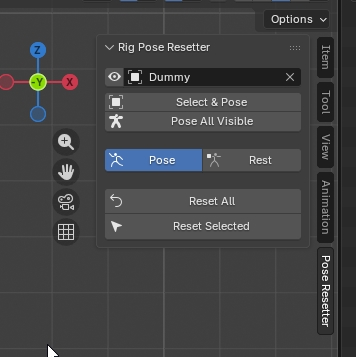
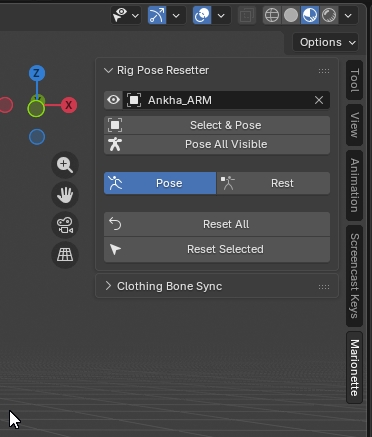
Add files via upload
Обновил категорию с Pose Resetter на Marionette
Риги, скрытые галочкой на коллекции в аутлайнере больше не отображаются в выпадающем списке

diff --git a/__init__.py b/__init__.py
@@ -6,7 +6,7 @@ class RigResetProperties(PropertyGroup):
     target_rig: PointerProperty(
         name="Target Rig",
         type=bpy.types.Object,
-        poll=lambda self, obj: obj.type == 'ARMATURE' and (not obj.library or obj.override_library),
+        poll=lambda self, obj: obj.type == 'ARMATURE' and (not obj.library or obj.override_library) and obj.name in bpy.context.view_layer.objects,
         description="Rig to work with"
     )
     apply_confirm: BoolProperty(
@@ -14,7 +14,6 @@ class RigResetProperties(PropertyGroup):
         default=False,
         description="Enable the Apply Selected as Rest button"
     )
-
     show_danger_zone: BoolProperty(
         name="Show Danger Zone",
         default=False
@@ -224,7 +223,8 @@ class RIGRESET_PT_main_panel(Panel):
     bl_idname = "RIGRESET_PT_main_panel"
     bl_space_type = 'VIEW_3D'
     bl_region_type = 'UI'
-    bl_category = "Pose Resetter"
+    bl_category = "Marionette"
+    bl_order = 0
 
     def draw(self, context):
         layout = self.layout
@@ -301,3 +301,6 @@ def unregister():
     for cls in reversed(classes):
         bpy.utils.unregister_class(cls)
     del bpy.types.Scene.rigreset_props
+    
+if __name__ == "__main__":
+    register()

diff --git a/README.md b/README.md
@@ -1,21 +1,22 @@
 # Rig Pose Resetter
 
-A simple Blender addon that adds a panel with buttons in the sidebar (N key) in the **Pose Resetter** tab.
+   A simple Blender addon that adds a panel with buttons in the sidebar (N key) in the **Marionette** tab.
 
-The main reason this addon was made - you can select the desired rig in a dropdown menu in advance, and then work with the buttons — no need to reselect it or switch modes every time.
+   The main reason this addon was made - you can select the desired rig in a dropdown menu in advance, and then work with the buttons — no need to reselect it or switch modes every time.
 
-![screenshot](screenshot.jpg) 
+   ![screenshot](screenshot.jpg)
 
 ## Features & Buttons:
-- **Toggle Bone Visibility** — Quick access to show/hide bones in the viewport.
-- **Target Rig Selector** — Choose your armature.
-- **Select & Pose** — Instantly selects the target rig and switches to Pose Mode.
-- **Pose All Visible** — Automatically selects all visible armatures in the scene and puts them into Pose Mode.
-- **Pose Position / Rest Position** — toggle pose display mode (similar to buttons in Armature Data Properties).
-- **Reset Selected / All to Rest** — Quickly reset bone transformations (Alt+G / Alt+R / Alt+S) for selected or all bones.
+   - **Toggle Bone Visibility** — Quick access to show/hide bones in the viewport.
+   - **Target Rig Selector** — Choose your armature.
+   - **Select & Pose** — Instantly selects the target rig and switches to Pose Mode.
+   - **Pose All Visible** — Automatically selects all visible armatures in the scene and puts them into Pose Mode.
+   - **Pose Position / Rest Position** — toggle pose display mode (similar to buttons in Armature Data Properties).
+   - **Reset Selected / All to Rest** — Quickly reset bone transformations (Alt+G / Alt+R / Alt+S) for selected or all bones.
 
 ## Installation
-1. Download the ZIP archive.
-2. Blender 4.2+: `Edit` -> `Preferences` -> `Add-ons` -> `Install from Disk...` -> select the ZIP.  
-   Or simply drag the archive into the Blender window.
-3. Enjoy.
+   1. Go to the **Releases** section on the right side of this GitHub repository page.
+   2. Download the ZIP archive.
+   3. Blender 4.2+: `Edit` -> `Preferences` -> `Add-ons` -> `Install from Disk...` -> select the ZIP.  
+      Or simply drag the archive into the Blender window.
+   4. Enjoy.
